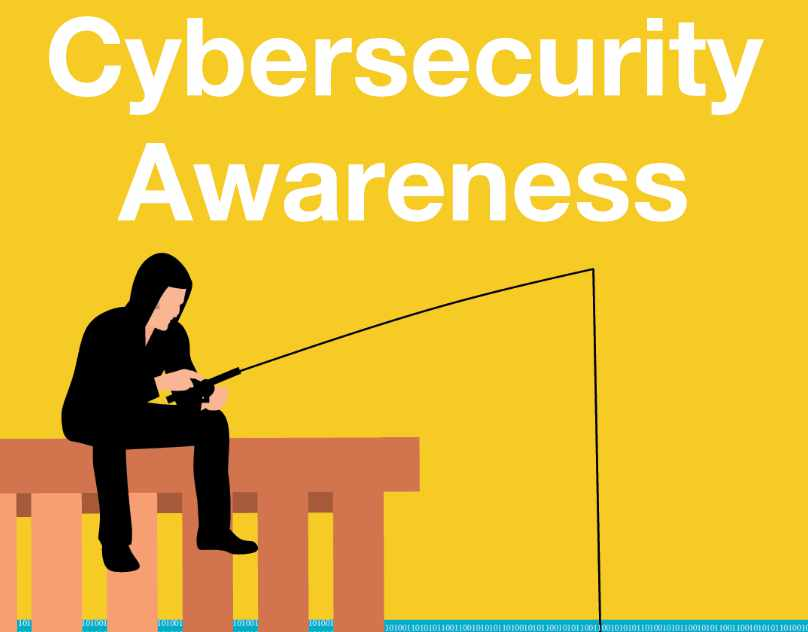
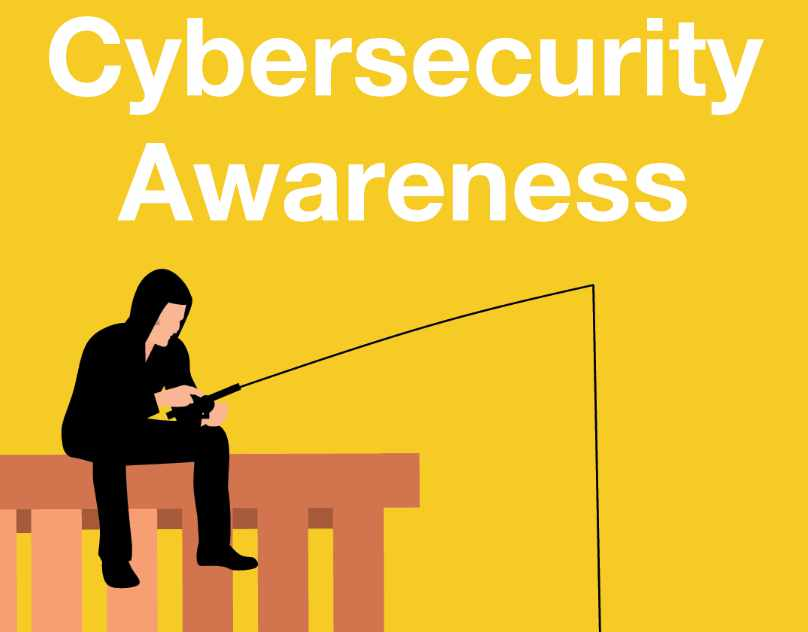
new PSA thumbnail, stars on homepage are now more adaptive to larger and smaller screen sizes

diff --git a/src/Home/Hero.css b/src/Home/Hero.css
@@ -7,6 +7,7 @@
   position: relative;
   background: var(--bg);
   min-height: 670px;
+  max-height: 800px;
   overflow: hidden;
 }
 
@@ -33,19 +34,18 @@
 }
 
 .Hero--Icon--left {
-  left: 15%;
-  top: 70%;
+  left: calc(45% - 420px);
+  top: 75%;
   transform: translateY(-50%);
 }
 
 .Hero--Icon--right {
-  right: 15%;
+  left: calc(55% + 320px);
   top: 30%;
   transform: translateY(-50%);
 }
 
 .Hero--Content {
-  height: 35vh;
   animation: fadeUp 1s ease forwards;
   z-index: 2;
 }
@@ -63,27 +63,24 @@
   max-width: 650px;
 }
 
-/* Tablet */
-@media screen and (max-width: 1100px) {
-  .Hero--Icon {
-    font-size: 55px;
-  }
-
+@media screen and (max-width: 1000px) {
   .Hero--Icon--left {
-    left: 8%;
+    left: calc(48.5% - 420px);
     top: 75%;
+    transform: translateY(-50%);
   }
 
   .Hero--Icon--right {
-    right: 8%;
-    top: 25%;
+    left: calc(53% + 320px);
+    top: 30%;
+    transform: translateY(-50%);
   }
 }
 
 /* Mobile */
-@media screen and (max-width: 850px) {
+@media screen and (max-width: 855px) {
   .Hero--Icon {
-    font-size: 50px;
+    font-size: 60px;
   }
 
   .Hero {
@@ -91,13 +88,15 @@
   }
 
   .Hero--Icon--left {
-    left: 4%;
-    top: 75%;
+    left: calc(57% - 420px);
+    top: 70%;
+    transform: translateY(-50%);
   }
 
   .Hero--Icon--right {
-    right: 4%;
-    top: 20%;
+    left: calc(49% + 320px);
+    top: 30%;
+    transform: translateY(-50%);
   }
   .Hero--Content > h1 {
     font-size: 100px;
@@ -105,7 +104,7 @@
   }
 }
 
-@media screen and (max-width: 680px) {
+@media screen and (max-width: 710px) {
   .Hero--Content > h1 {
     font-size: 65px;
   }
@@ -129,12 +128,12 @@
   }
 
   .Hero--Icon--right {
-    right: 5%;
+    left: 86%;
     top: 22%;
   }
 }
 
-@media screen and (max-width: 375px) {
+@media screen and (max-width: 455px) {
   .Hero--Content > h1 {
     font-size: 55px;
   }